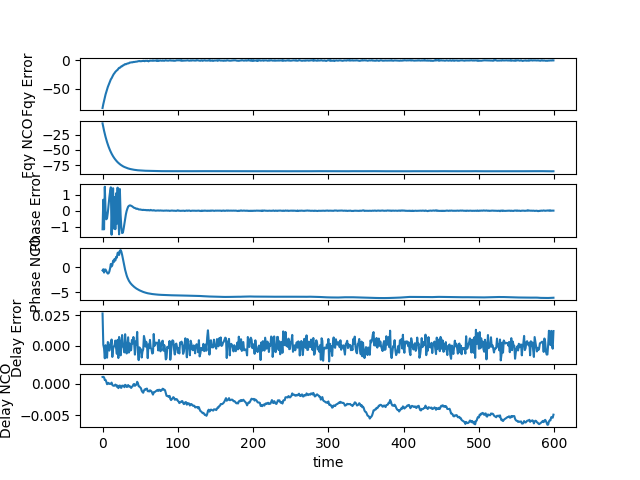
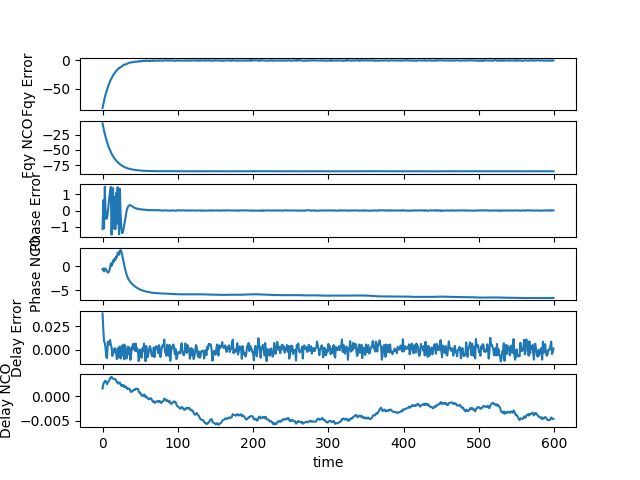
L1

diff --git a/L1/codes/e2e_sim/navicsimL1.py b/L1/codes/e2e_sim/navicsimL1.py
@@ -1357,7 +1357,7 @@ class LockIndicator():
 #acquisition will provide rough frequency and code offsets. tracking will do precise calculation of frequency shifts and code delays
 #thereby locks the values once threshold is reached
 class NavicTracker:
-    def __init__(self, prnId):
+    def __init__(self, prnId ):
         # Public, tunable properties
         self.InitialCodePhaseOffset = 0
         self.InitialDopplerShift = 0
@@ -1426,13 +1426,14 @@ class NavicTracker:
         #Code Tables
         
         
-        self.dataCodeLength = dataCodeLength
+        #self.dataCodeLength = dataCodeLength
         #self.pilotCodeLength = pilotCodeLength
-        #self.pilotOverlayCodeLength = pilotOverlayCodeLength
-        #self.symbolRate = symbolRate
+        #self.pilotOverlayCodeLength = 10230
+        #self.symbolRate = 100
         self.codeTable_data = genNavicCaCode_Data(self.PRNID).astype(float)
         self.codeTable_pilot = genNavicCaCode_Pilot(self.PRNID).astype(float)
-        #self.codeTable_pilot_overlay = genNavicCaCode_Pilot_Overlay(self.PRNID)
+        #self.codeTable_pilot_overlay =  genNavicCaCode_Pilot_Overlay(self.PRNID).astype(float) 
+        #self.overlaycode_pointer = 0
         
         #Subcarrier
         self.subcarrierFrequency = 1.023e6 # Subcarrier frequency
@@ -1443,6 +1444,7 @@ class NavicTracker:
         self.bufsize_power_estimation = 10
         self.lock_fail_counter = 0
         self.lock_fail_counter_threshold = 50
+        
                 
     def updatePromptCode(self):
         # Initialize the code
@@ -1540,7 +1542,8 @@ class NavicTracker:
         # Calculate number of samples in delay
         numsamprot = round(self.InitialCodePhaseOffset * self.pSamplesPerChip) # Number of samples to rotate
         self.pNumSamplesToAppend = self.numSamplesPerCodeBlock - (numsamprot % self.numSamplesPerCodeBlock)
-
+        
+        
     def stepImpl(self, u):
         # Implement algorithm. Calculate y as a function of input u and
         # discrete states.
@@ -1618,21 +1621,29 @@ class NavicTracker:
         y_pilot = np.mean(millisecdata_pilot, axis=0) # Each element contains integrated value of one millisecond of data
         #y_pilot = np.mean(millisecdata_pilot, axis=0)
         integpval_pilot = np.sum(y_pilot)
+        
         if len(iq_p_pilot) % 2 != 0: # Odd number of samples
             fllin_pilot = np.mean(np.reshape(np.concatenate([iq_p_pilot, [0]]), (2, -1)).T, axis=0) # Append a zero
+            #fllin_pilot = np.mean(np.reshape(np.concatenate([remove_overlay, [0]]), (2, -1)).T, axis=0)
         else:
             fllin_pilot = np.mean(iq_p_pilot.reshape((2, -1)).T, axis=0)
-
+            #fllin_pilot = np.mean(remove_overlay.reshape((2, -1)).T, axis=0)
+        
+        
         #Extract Data from Data Channel
         millisecdata_data = iq_p_data.reshape((int(self.PLLIntegrationTime/10), -1)).T # Each column contains ten millisecond of data
         
         y_data = np.mean(millisecdata_data, axis=0) # Each element contains integrated value of one millisecond of data
         #y_data = np.mean(millisecdata_data, axis=0) 
         integpval_data = np.sum(y_data)
+        
+        
         if len(iq_p_data) % 2 != 0: # Odd number of samples
             fllin_data = np.mean(np.reshape(np.concatenate([iq_p_data, [0]]), (2, -1)).T, axis=0) # Append a zero
+            
         else:
             fllin_data = np.mean(iq_p_data.reshape((2, -1)).T, axis=0)
+            
         
         # DLL discriminator Pilot
         E_pilot = np.linalg.norm([integeval_pilot, integveval_pilot])
@@ -1671,25 +1682,16 @@ class NavicTracker:
         fqyerr = 0
         fqyerr_pilot =0
         fqyerr_data = 0
-        '''
-        if(self.previous_prompt_pilot != None):
-            
-            
-            phasor_pilot = np.conj(self.previous_prompt_pilot)*y_pilot
-            fqyerr_pilot = -np.angle(phasor_pilot)/(2*np.pi*integtime)
-            
-        if(self.previous_prompt_data != None):
-            
-            
-            phasor_data = np.conj(self.previous_prompt_data)*y_data
-            fqyerr_data = -np.angle(phasor_data)/(2*np.pi*integtime)
         
-        '''
+        
         # FLL discriminator Pilot
         phasor_pilot = np.conj(fllin_pilot[0])*fllin_pilot[1]
-        # phasor = np.conj(self.pPreviousIntegPVal)*integpval
-          # angle is given between -pi and +pi
-        fqyerr_pilot = -np.angle(phasor_pilot)/(np.pi*integtime)
+        #phasor_pilot = (np.conj(fllin_pilot[0])*fllin_pilot[1]) * (1-2*self.codeTable_pilot_overlay[self.overlaycode_pointer])
+        
+          
+        #fqyerr_pilot = 1/integtime - np.angle(phasor_pilot)/(np.pi*integtime)
+        fqyerr_pilot =  -np.angle(phasor_pilot)/(np.pi*integtime)
+        
         
         # FLL discriminator Data
         phasor_data = np.conj(fllin_data[0])*fllin_data[1]
@@ -1753,7 +1755,7 @@ class NavicTracker:
 
         #self.updatePromptCode() ##Update the prompt code for next set of sample
         
-        
+        #self.overlaycode_pointer += 1
         
         return y_pilot, y_data, fqyerr, fqynco, pherr, phnco, delayerr, delaynco, fc
 
@@ -2040,7 +2042,7 @@ for istep in range(numSteps):
 # If a satellite is visible, initialize tracking loop
                 if(status == True):
                     satVis += 1 
-                    tracker.append(NavicTracker(satId[prnId]))
+                    tracker.append(NavicTracker(satId[prnId]) )
                     tracker[-1].SampleRate = sampleRate
                     tracker[-1].CenterFrequency = 0
                     tracker[-1].PLLNoiseBandwidth = PLLNoiseBandwidth

diff --git a/L1/codes/e2e_sim/npangle.py b/L1/codes/e2e_sim/npangle.py
@@ -3,8 +3,8 @@ import numpy as np
 a = -0.00258 + 0.02179j
 b = 0.0470 - 0.0199j
 c = -0.00975 + 0.0162j
-#d = -0.08845 + 0.0471j
-d= 0.00408 + 0.0072j
+d = -0.08845 + 0.0471j
+#d= 0.00408 + 0.0072j
 
 comp_val = np.array([-0.00258 + 0.02179j, 0.0470 - 0.0199j, -0.00975 + 0.0162j, 0.00408 + 0.0072j ])
 
@@ -17,22 +17,31 @@ for i in range(k) :
         print(-ang/(np.pi*integtime))
     else :
         print((2*np.pi - ang)/(np.pi*integtime))
+print("\n")
 
+a1 = -1*a
+b1 = -1*b
+c1 = -1*c
+d1 = -1*d
+
+print(a1)
+
+print("a fqyerr = ", 1/integtime - 1*np.angle(a1)/(np.pi*integtime))
+print("b fqyerr = ", 1/integtime -1*np.angle(b1)/(np.pi*integtime))
+print("c fqyerr = ", 1/integtime -1*np.angle(c1)/(np.pi*integtime))
+print("d fqyerr = ", 1/integtime -1*np.angle(d1)/(np.pi*integtime))
+print("\n")
 
 
 #-1*np.angle(-0.00975+0.0162j)/(np.pi*integtime)
-
+'''
 print("a angle = ", np.angle(a)*360/(2*np.pi))
 print("b angle = ", np.angle(b)*360/(2*np.pi))
 print("c angle = ", np.angle(c)*360/(2*np.pi))
 print("d angle = ", np.angle(d)*360/(2*np.pi))
 print("\n")
 
-print("a fqyerr = ", -1*np.angle(a)/(np.pi*integtime))
-print("b fqyerr = ", -1*np.angle(b)/(np.pi*integtime))
-print("c fqyerr = ", -1*np.angle(c)/(np.pi*integtime))
-print("d fqyerr = ", -1*np.angle(d)/(np.pi*integtime))
-print("\n")
+
 
 print("a fqyerr = ", (2*np.pi-1*np.angle(a))/(np.pi*integtime))
 print("b fqyerr = ", (2*np.pi-1*np.angle(b))/(np.pi*integtime))
@@ -40,7 +49,7 @@ print("c fqyerr = ", (2*np.pi-1*np.angle(c))/(np.pi*integtime))
 print("d fqyerr = ", (2*np.pi-1*np.angle(d))/(np.pi*integtime))
 print("\n")
 
-
+'''
 #a1 = 0.1025 + 0.1119j
 #a2 = -0.1173 + 0.0844j
 #dot = np.real(a1) * np.real(a2)+ np.imag(a1) * np.imag(a2)
@@ -53,6 +62,6 @@ print("\n")
 #print((np.arctan2(np.real(c),np.imag(c))*(180/np.pi)/(integtime)))
 #print((np.arctan2(np.real(d),np.imag(d))*(180/np.pi)/(integtime)))
 
-print(np.arctan2(np.imag(a), np.real(a)))
-print(np.angle(a))
+#print(np.arctan2(np.imag(a), np.real(a)))
+#print(np.angle(a))
 

diff --git a/L1/codes/e2e_sim/mult.py b/L1/codes/e2e_sim/mult.py
@@ -1,0 +1,10 @@
+import numpy as np
+
+a = np.array([1,2,3,4,5])
+b = np.array([-1,-1,-1,-1,-1])
+c = a.reshape(-1,1)
+d = b.reshape(-1,1)
+print(c.shape)
+print(d.shape)
+print(a*b)
+print(c*d)
